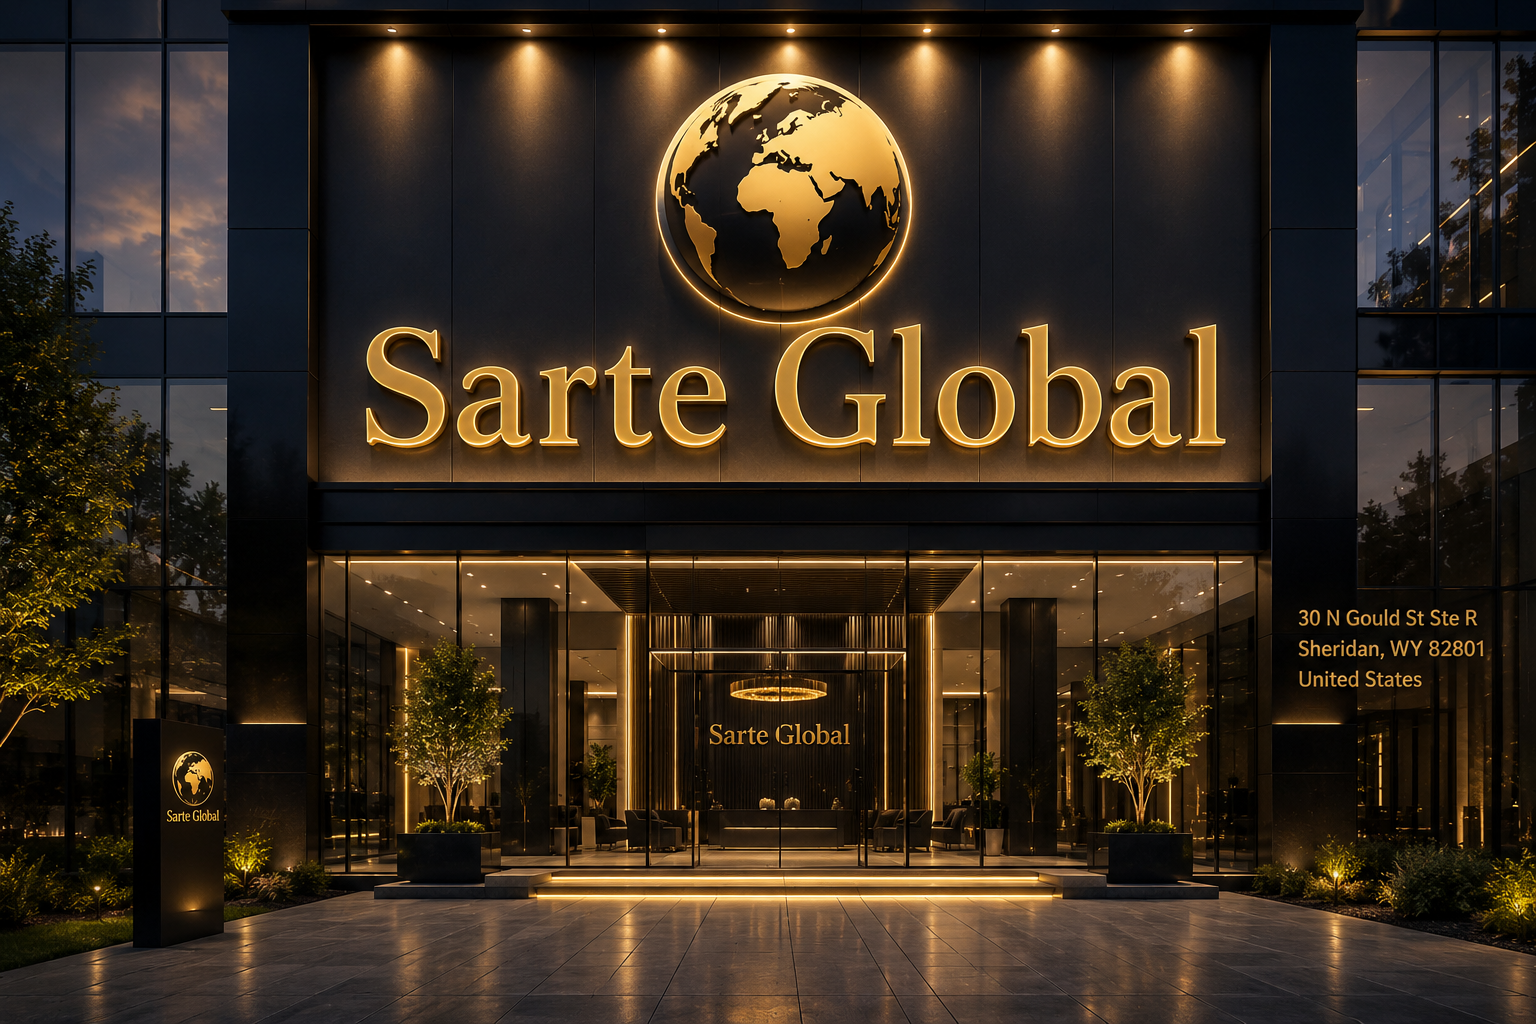
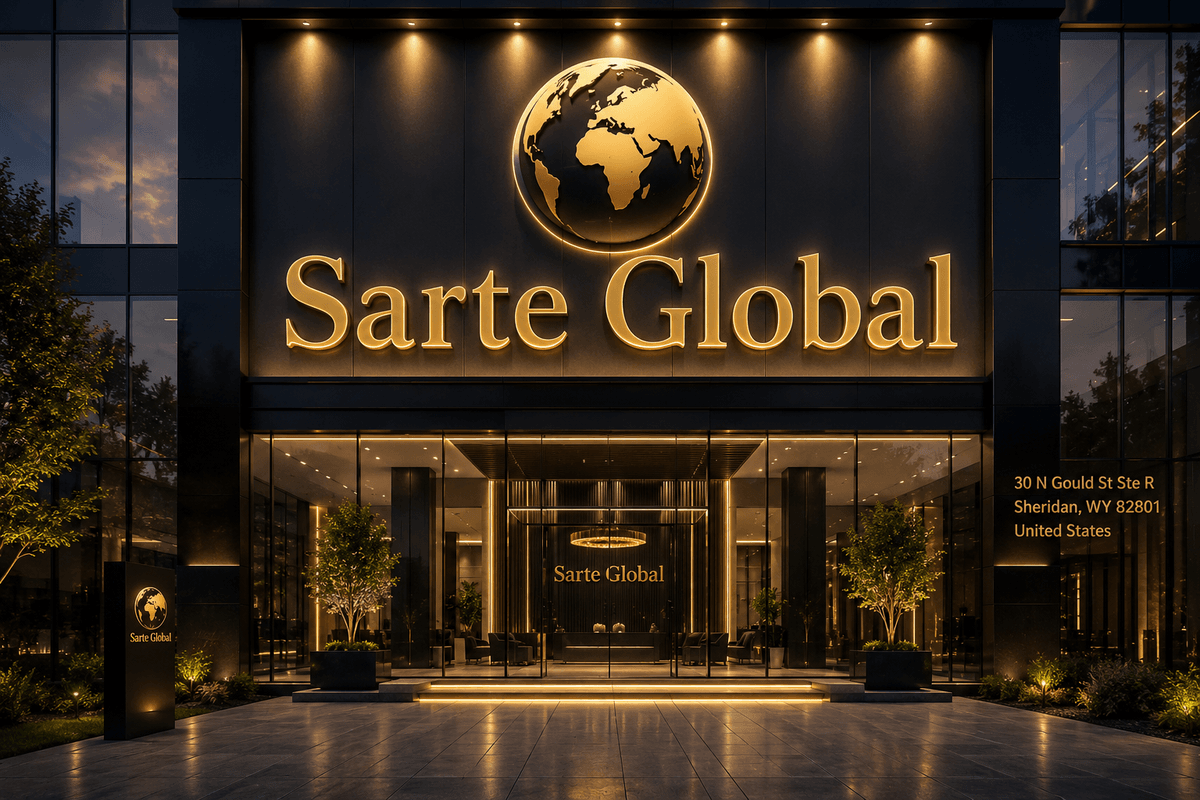
feat: add asset optimization script for image resizing and format conversion
- Introduced a new script `optimize-assets.mjs` to optimize source images.
- Resized and converted `company-img.png` to `company-img.webp` and an optimized PNG for Open Graph.
- Resized and quantized `logo-site.png` for improved loading performance.

diff --git a/components/pricing/PricingPlanModal.tsx b/components/pricing/PricingPlanModal.tsx
@@ -6,8 +6,9 @@ import { useEffect, useRef } from "react";
 import { getMessageStarter } from "@/constants/contact";
 import { useSiteSettings } from "@/contexts/SettingsContext";
 import { useReducedMotion } from "@/hooks/useReducedMotion";
-import { buildWhatsAppUrl } from "@/lib/whatsapp";
+import { buildMessage, buildWhatsAppUrl } from "@/lib/whatsapp";
 import type { PricingPrice, PricingTier } from "@/types";
+import { CheckIcon } from "./PricingIcons";
 
 const EASE = [0.2, 0.7, 0.2, 1] as const;
 
@@ -34,20 +35,17 @@ function formatPrice(price: PricingPrice): string {
 
 function priceCaption(price: PricingPrice): string {
   if (price.amount === null) return "Offerte op maat";
-  return price.period === "maand" ? "per maand · excl. btw" : "eenmalig · excl. btw";
-}
-
-/** Short, unambiguous billing term shown prominently in the dialog. */
-function periodLabel(price: PricingPrice): string {
-  if (price.amount === null) return "Op aanvraag";
-  return price.period === "maand" ? "Per maand" : "Eenmalig";
+  return "excl. btw";
 }
 
 /**
  * Confirmation modal shown before a visitor is handed off to WhatsApp from the
- * pricing section. It restates the chosen service + tier, prominently shows the
- * billing term, previews the locked (read-only) message, and only then opens
- * WhatsApp in a new tab.
+ * pricing section. It restates the chosen service + tier, lists all included
+ * features with checkmarks, previews the locked (read-only) message, and only
+ * then opens WhatsApp in a new tab.
+ *
+ * The billing period is intentionally hidden from the UI (to reduce friction)
+ * but is still injected into the WhatsApp payload so the team sees it.
  *
  * Fully accessible: closes on Escape or overlay click, traps focus, locks body
  * scroll and restores focus to the trigger on close.
@@ -63,7 +61,24 @@ export function PricingPlanModal({ selection, onClose }: PricingPlanModalProps) 
   // The opening message is locked: it's derived straight from the selection and
   // never editable, so the exact payload handed off to WhatsApp can't be
   // tampered with from the dialog.
-  const message = selection ? getMessageStarter(selection.projectType) : "";
+  // The preview shows the full invoice-style message including plan details.
+  const message = (() => {
+    if (!selection) return "";
+    const { price } = selection.tier;
+    const hasPrice = price.amount !== null;
+    return buildMessage({
+      projectType: selection.projectType,
+      planName: selection.tier.name,
+      planPrice: hasPrice ? formatPrice(price) : undefined,
+      planPeriod: hasPrice
+        ? price.period === "maand"
+          ? "per maand"
+          : "eenmalig"
+        : undefined,
+      planFeatures: selection.tier.deliverables,
+      message: getMessageStarter(selection.projectType),
+    });
+  })();
 
   useEffect(() => {
     if (!open) return;
@@ -116,10 +131,21 @@ export function PricingPlanModal({ selection, onClose }: PricingPlanModalProps) 
 
   function handleConfirm() {
     if (!selection) return;
+    const { price } = selection.tier;
+    const hasPrice = price.amount !== null;
     const url = buildWhatsAppUrl(
       {
         projectType: selection.projectType,
         planName: selection.tier.name,
+        // Full pricing data — the period is intentionally included here
+        // (in the background payload) while being hidden from the modal UI.
+        planPrice: hasPrice ? formatPrice(price) : undefined,
+        planPeriod: hasPrice
+          ? price.period === "maand"
+            ? "per maand"
+            : "eenmalig"
+          : undefined,
+        planFeatures: selection.tier.deliverables,
         // Exact, unedited starter message — guaranteed identical to the locked
         // preview shown in the dialog.
         message: getMessageStarter(selection.projectType),
@@ -186,7 +212,7 @@ export function PricingPlanModal({ selection, onClose }: PricingPlanModalProps) 
                 Je gaat verder via <em className="font-normal italic text-(--color-accent)">WhatsApp</em>
               </h2>
               <p className="text-sm leading-relaxed text-(--color-text-secondary)">
-                Controleer hieronder je pakket en termijn. Daarna openen we WhatsApp met je bericht al volledig ingevuld.
+                Controleer hieronder je gekozen pakket. Daarna openen we WhatsApp met je bericht al volledig ingevuld.
               </p>
             </div>
 
@@ -228,24 +254,24 @@ export function PricingPlanModal({ selection, onClose }: PricingPlanModalProps) 
               </div>
             </dl>
 
-            {/* Prominent billing term — primary visual element so there's zero
-                confusion about what's charged and how long it runs. */}
-            <div className="mt-4 flex flex-wrap items-center justify-between gap-3 rounded-xl border border-(--color-accent)/35 bg-(--color-accent-soft) px-4 py-3.5">
-              <div className="flex flex-col gap-0.5">
-                <span className="text-[11px] font-medium uppercase tracking-[0.18em] text-(--color-accent)">
-                  Termijn
-                </span>
-                <span className="font-[family-name:var(--font-display)] text-xl font-extrabold leading-tight text-(--color-text)">
-                  {periodLabel(selection.tier.price)}
-                </span>
-              </div>
-              <span className="inline-flex items-center gap-1.5 rounded-full bg-(--color-accent) px-3.5 py-1.5 text-sm font-extrabold tracking-wide text-(--color-text-on-accent)">
-                <svg viewBox="0 0 24 24" width="15" height="15" fill="none" stroke="currentColor" strokeWidth="2" aria-hidden="true" className="shrink-0">
-                  <circle cx="12" cy="12" r="9" />
-                  <path d="M12 7v5l3 2" strokeLinecap="round" strokeLinejoin="round" />
-                </svg>
-                {selection.tier.timeline}
+            {/* Deliverables / features included in this plan — rendered with
+                checkmarks so the client sees exactly what they are getting
+                before confirming. The billing period is intentionally excluded
+                from the UI (but still included in the WhatsApp payload). */}
+            <div className="mt-4 flex flex-col gap-2">
+              <span className="text-[11px] font-medium uppercase tracking-[0.16em] text-(--color-text-muted)">
+                Inclusief diensten
               </span>
+              <ul className="space-y-2 rounded-xl border border-(--color-border) bg-(--color-surface-2) px-4 py-3">
+                {selection.tier.deliverables.map((item) => (
+                  <li key={item} className="flex items-start gap-2 text-sm leading-snug text-(--color-text)">
+                    <span className="mt-0.5 shrink-0 text-(--color-accent)">
+                      <CheckIcon />
+                    </span>
+                    <span>{item}</span>
+                  </li>
+                ))}
+              </ul>
             </div>
 
             {/* Locked message preview — read-only so the exact payload that's
@@ -264,11 +290,11 @@ export function PricingPlanModal({ selection, onClose }: PricingPlanModalProps) 
                 </span>
               </div>
               <textarea
-                rows={4}
+                rows={8}
                 value={message}
                 readOnly
                 aria-readonly="true"
-                aria-label="Voorbeeld van je WhatsApp-bericht. Dit bericht staat vast en kan niet worden bewerkt."
+                aria-label="Volledig voorbeeld van je WhatsApp-bericht met pakketdetails. Dit bericht staat vast en kan niet worden bewerkt."
                 className="w-full cursor-not-allowed resize-none select-none rounded-xl border border-(--color-border) bg-(--color-surface-2)/50 px-3.5 py-3 text-sm leading-relaxed text-(--color-text-secondary) outline-none"
               />
             </div>

diff --git a/lib/whatsapp.ts b/lib/whatsapp.ts
@@ -5,18 +5,59 @@ export interface WhatsAppMessageInput {
   readonly email?: string;
   readonly projectType?: string;
   readonly planName?: string;
+  /** Formatted price string, e.g. "€995" or "€1.995+" */
+  readonly planPrice?: string;
+  /** Human-readable period label, e.g. "eenmalig" or "per maand" */
+  readonly planPeriod?: string;
+  /** List of feature / deliverable descriptions for this plan */
+  readonly planFeatures?: readonly string[];
   readonly message: string;
 }
 
-function buildMessage({
-  name,
-  email,
-  projectType,
-  planName,
-  message,
-}: WhatsAppMessageInput): string {
+export function buildMessage(input: WhatsAppMessageInput): string {
+  const {
+    name,
+    email,
+    projectType,
+    planName,
+    planPrice,
+    planPeriod,
+    planFeatures,
+    message,
+  } = input;
+
   const lines: string[] = ["Hallo Sarte Global,"];
 
+  // ── Rich invoice-style summary when full plan data is available ──
+  if (planName && planPrice) {
+    lines.push(
+      "",
+      "═══════════════════════════════",
+      "  NIEUWE AANVRAAG ─ PAKKET",
+      "═══════════════════════════════",
+      "",
+      `  Pakket: ${planName}`,
+      `  Prijs:  ${planPrice}${planPeriod ? ` (${planPeriod})` : ""}`,
+    );
+    if (planFeatures?.length) {
+      lines.push("", "  Inclusief:");
+      planFeatures.forEach((f) => lines.push(`    ✓ ${f}`));
+    }
+    lines.push("");
+    if (projectType?.trim()) {
+      lines.push(`Projecttype: ${projectType.trim()}.`);
+    }
+    if (name?.trim()) {
+      lines.push(`Naam: ${name.trim()}.`);
+    }
+    if (email?.trim()) {
+      lines.push(`E-mail: ${email.trim()}.`);
+    }
+    lines.push("", "Bericht:", message.trim());
+    return lines.join("\n");
+  }
+
+  // ── Legacy format (no pricing data — backward compatible) ──
   const trimmedName = name?.trim();
   lines.push(
     trimmedName

diff --git a/components/projects/project-card.tsx b/components/projects/project-card.tsx
@@ -1,7 +1,7 @@
 "use client";
 
 import Image from "next/image";
-import { useMemo, useState, type CSSProperties, type PointerEvent } from "react";
+import { useMemo, useRef, useState, type CSSProperties, type PointerEvent } from "react";
 
 import type { ProjectCardProps, CSSVarStyle } from "@/types";
 
@@ -26,10 +26,18 @@ export function ProjectCard({ project, index }: ProjectCardProps) {
   const [failed, setFailed] = useState(false);
   const [loaded, setLoaded] = useState(false);
 
+  // Cache the card's rect on pointer enter so onPointerMove never reads layout
+  // (getBoundingClientRect) on every move — that per-move read forces a reflow.
+  const rectRef = useRef<DOMRect | null>(null);
+
+  const onPointerEnter = (event: PointerEvent<HTMLAnchorElement>) => {
+    rectRef.current = event.currentTarget.getBoundingClientRect();
+  };
+
   const onPointerMove = (event: PointerEvent<HTMLAnchorElement>) => {
     const el = ref.current;
-    if (!el) return;
-    const rect = el.getBoundingClientRect();
+    const rect = rectRef.current;
+    if (!el || !rect) return;
     const x = ((event.clientX - rect.left) / rect.width) * 100;
     const y = ((event.clientY - rect.top) / rect.height) * 100;
     el.style.setProperty("--mx", `${x}%`);
@@ -37,6 +45,7 @@ export function ProjectCard({ project, index }: ProjectCardProps) {
   };
 
   const onPointerLeave = () => {
+    rectRef.current = null;
     const el = ref.current;
     if (!el) return;
     el.style.setProperty("--mx", `50%`);
@@ -70,6 +79,7 @@ export function ProjectCard({ project, index }: ProjectCardProps) {
       className={isIn ? "proj-card is-in" : "proj-card"}
       data-reveal=""
       style={baseStyle as CSSProperties}
+      onPointerEnter={onPointerEnter}
       onPointerMove={onPointerMove}
       onPointerLeave={onPointerLeave}
       aria-label={`${project.title} — ${project.description}`}

diff --git a/app/globals.css b/app/globals.css
@@ -34,6 +34,16 @@
   font-weight: 600;
 }
 
+/* Defer rendering (style + layout + paint) of large, below-the-fold content
+   blocks until they approach the viewport. Only safe on elements that already
+   clip their overflow, since content-visibility forces paint containment.
+   The `auto` keyword in contain-intrinsic-size remembers the real rendered
+   size after first paint, keeping scroll position stable. */
+.cv-section {
+  content-visibility: auto;
+  contain-intrinsic-size: auto 700px;
+}
+
 /* ── Tailwind v4 custom theme tokens ── */
 @theme {
   --color-blanc-50: #FFFFFF;

diff --git a/app/layout.tsx b/app/layout.tsx
@@ -228,8 +228,6 @@ export default async function RootLayout({ children }: RootLayoutProps) {
   return (
     <html lang="nl" className={`${playfair.variable} ${dmSans.variable}`}>
       <head>
-        <link rel="preconnect" href="https://images.unsplash.com" crossOrigin="anonymous" />
-        <link rel="dns-prefetch" href="https://images.unsplash.com" />
         <script
           type="application/ld+json"
           dangerouslySetInnerHTML={{

diff --git a/components/pricing/PricingComparison.tsx b/components/pricing/PricingComparison.tsx
@@ -74,7 +74,7 @@ export function PricingComparison({ tiers, rows }: PricingComparisonProps) {
           (open ? "grid-rows-[1fr] opacity-100" : "grid-rows-[0fr] opacity-0")
         }
       >
-        <div className="min-h-0 overflow-hidden">
+        <div className="cv-section min-h-0 overflow-hidden">
           <div className="mt-3 overflow-x-auto rounded-xl border border-(--color-border)">
           <table className="w-full min-w-[560px] border-collapse">
             <thead>

diff --git a/components/sections/AboutCompany.tsx b/components/sections/AboutCompany.tsx
@@ -55,7 +55,7 @@ export function AboutCompany() {
                 src={ABOUT_COMPANY.mediaImage}
                 alt={ABOUT_COMPANY.mediaAlt}
                 fill
-                sizes="(max-width: 640px) 92vw, (max-width: 980px) 88vw, (max-width: 1280px) 40vw, 36vw"
+                sizes="(max-width: 640px) 90vw, (max-width: 980px) 80vw, (max-width: 1280px) 34vw, 30vw"
                 className="about-company__media-img"
                 quality={75}
                 loading="lazy"

diff --git a/components/shared/Logo.tsx b/components/shared/Logo.tsx
@@ -8,7 +8,7 @@ import type { MouseEvent, ReactElement } from "react";
  * This busts the Next.js image-optimization cache and the browser cache
  * so the new logo is served immediately instead of a stale cached version.
  */
-const LOGO_VERSION = 1;
+const LOGO_VERSION = 2;
 
 export interface LogoProps {
     /**

diff --git a/constants/about.ts b/constants/about.ts
@@ -6,7 +6,7 @@ export const ABOUT_COMPANY = {
   titleLead: "is het bureau achter",
   titleEm: "nieuwe websites",
   titleTail: "die écht resultaat opleveren.",
-  mediaImage: "/images/company-img.png",
+  mediaImage: "/images/company-img.webp",
   mediaAlt:
     "Binnen bij Sarte Global — onze werkplek waar nieuwe, moderne websites worden gebouwd voor ondernemers en bedrijven in Nederland.",
   mediaCaption: "Sarte Global · Nederland",